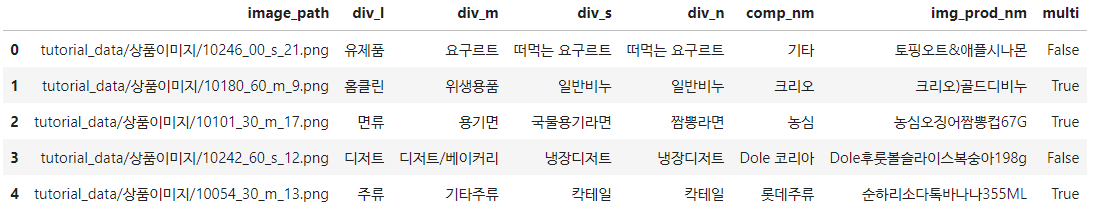
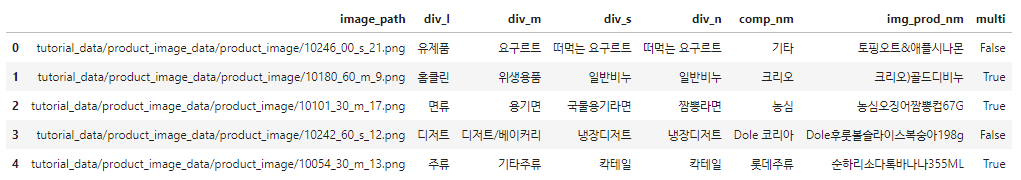
fix: path name

diff --git a/docs/tutorials/thanosql_ml/classification/classification_convNext.md b/docs/tutorials/thanosql_ml/classification/classification_convNext.md
@@ -65,12 +65,12 @@ ThanoSQL의 쿼리 구문을 사용하기 위해서는 [ThanoSQL 워크스페이
 ```sql
 %%thanosql
 COPY product_image_train
-FROM "tutorial_data/product_image/product_image_train.csv"
+FROM "tutorial_data/product_image_data/product_image_train.csv"
 ```
 ```sql
 %%thanosql
 COPY product_image_test
-FROM "tutorial_data/product_image/product_image_test.csv"
+FROM "tutorial_data/product_image_data/product_image_test.csv"
 ```
 
 !!! note ""
